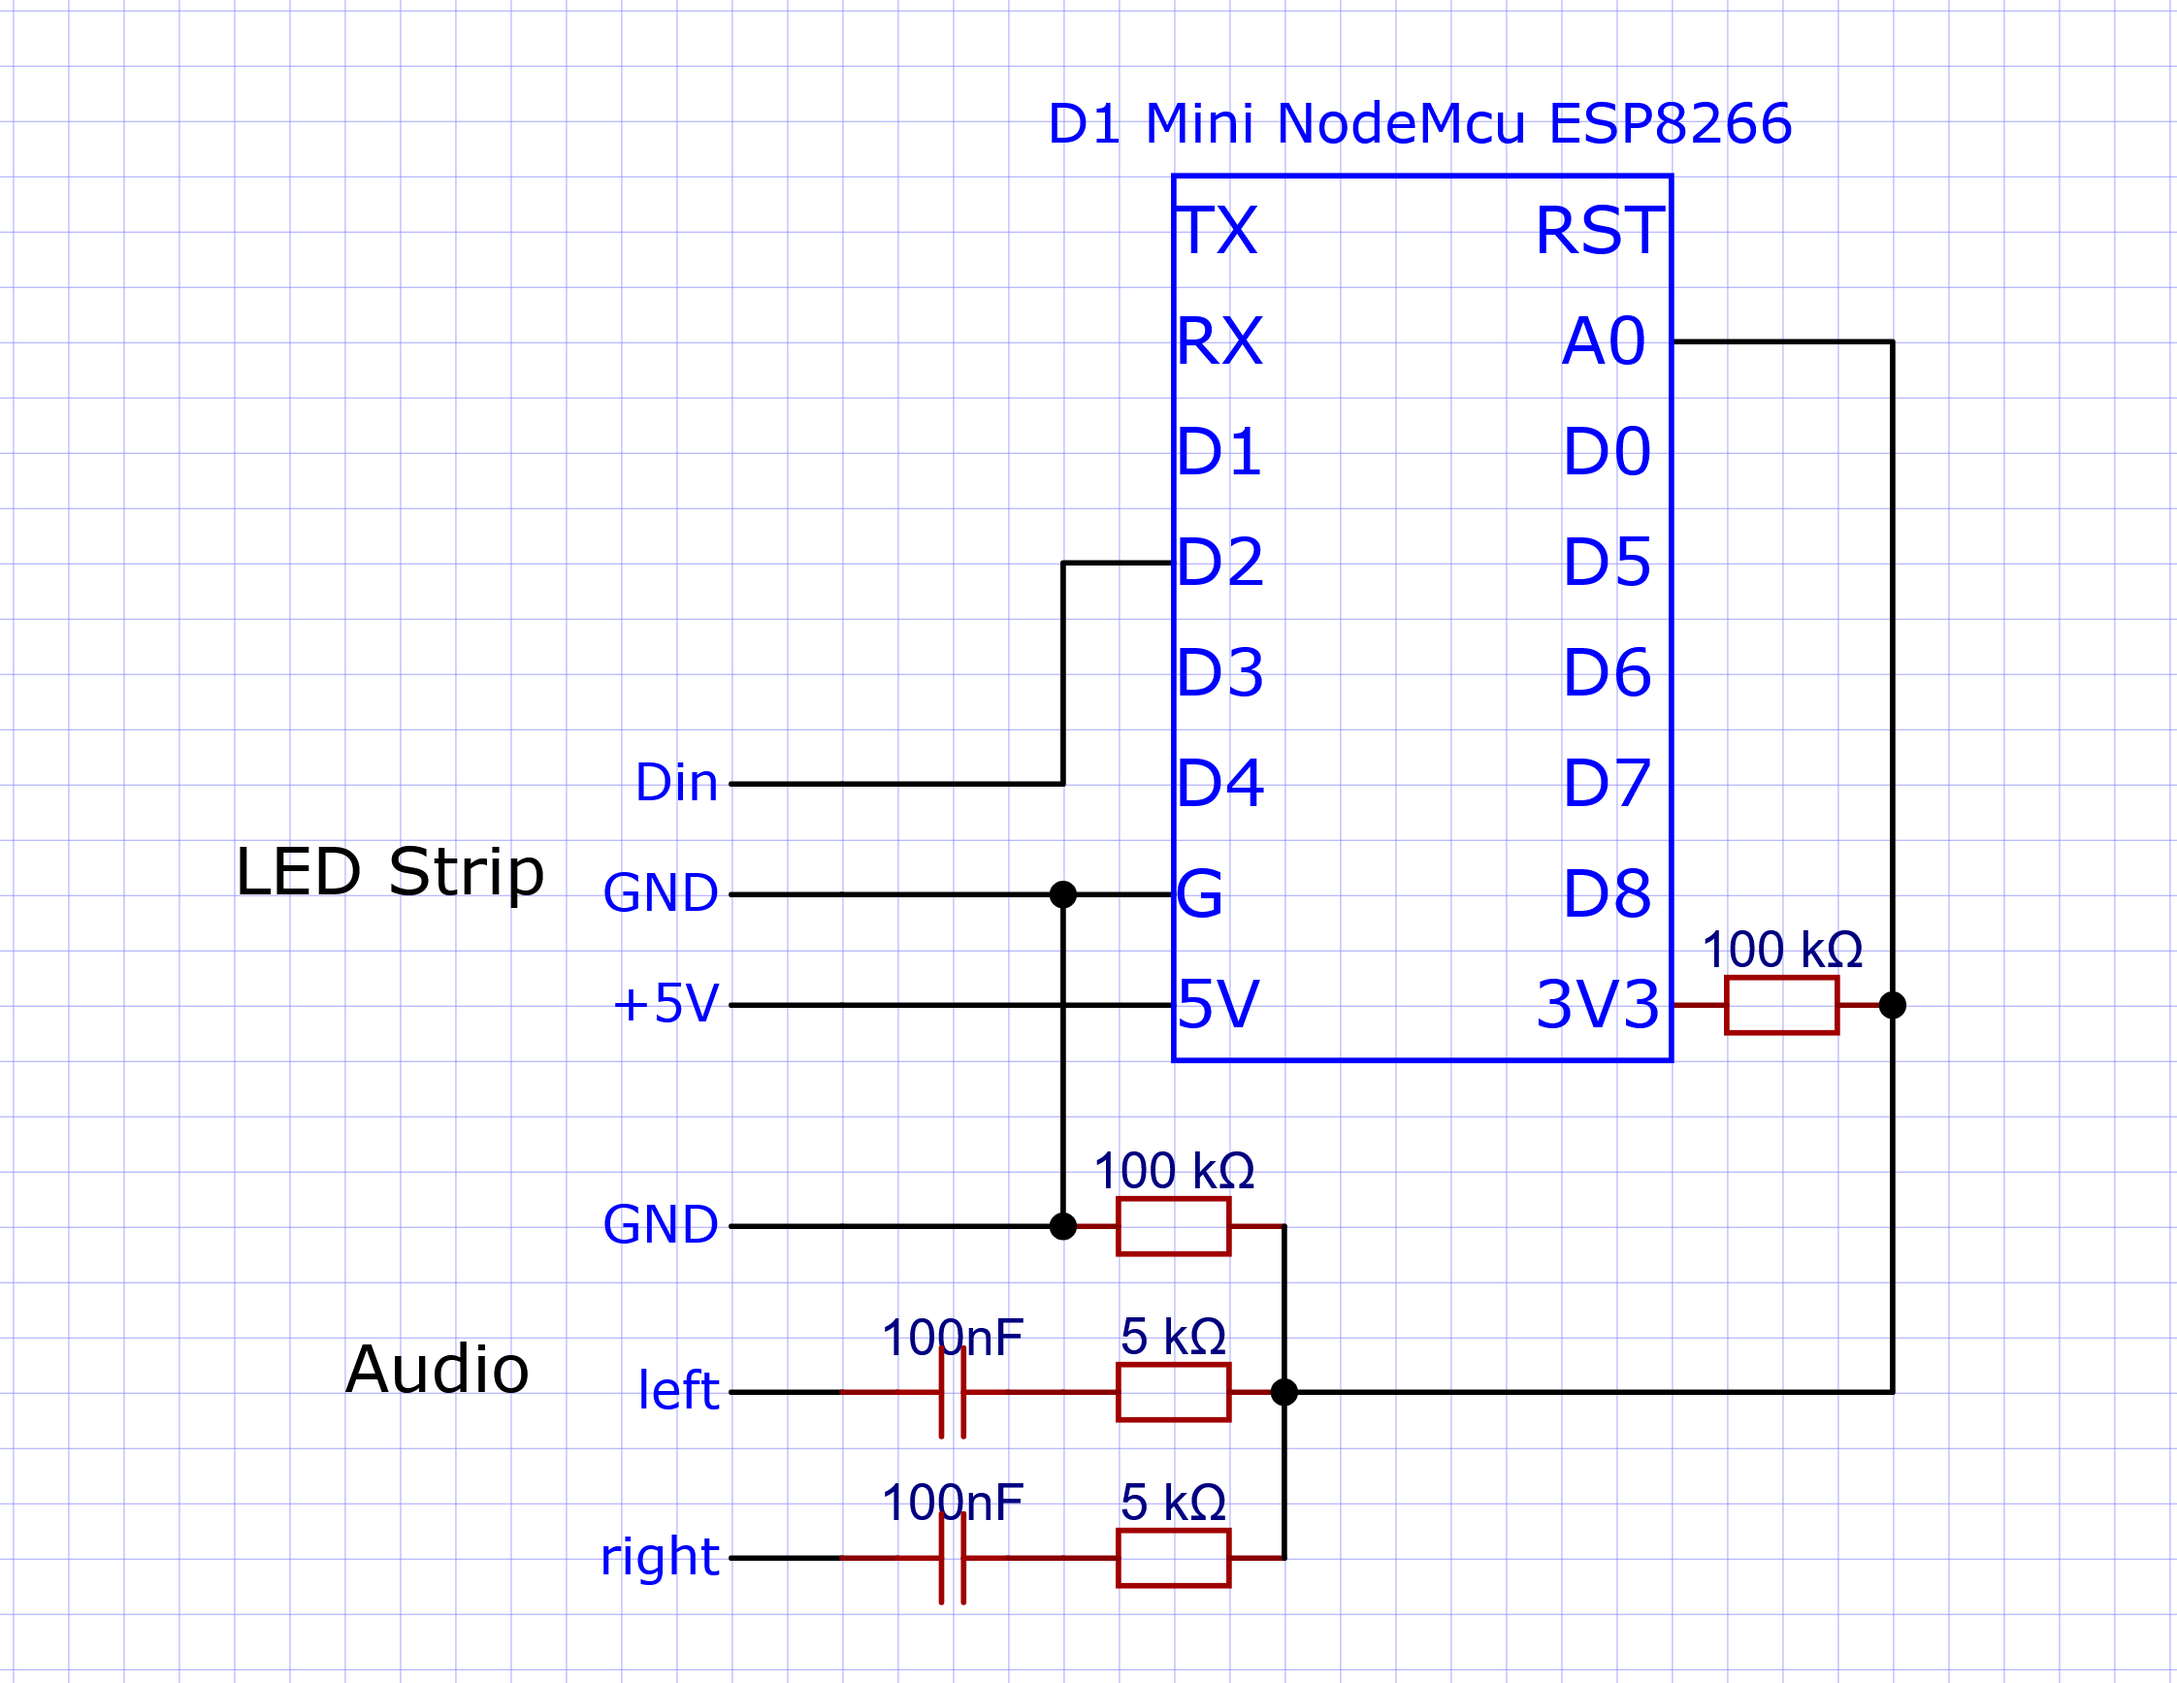
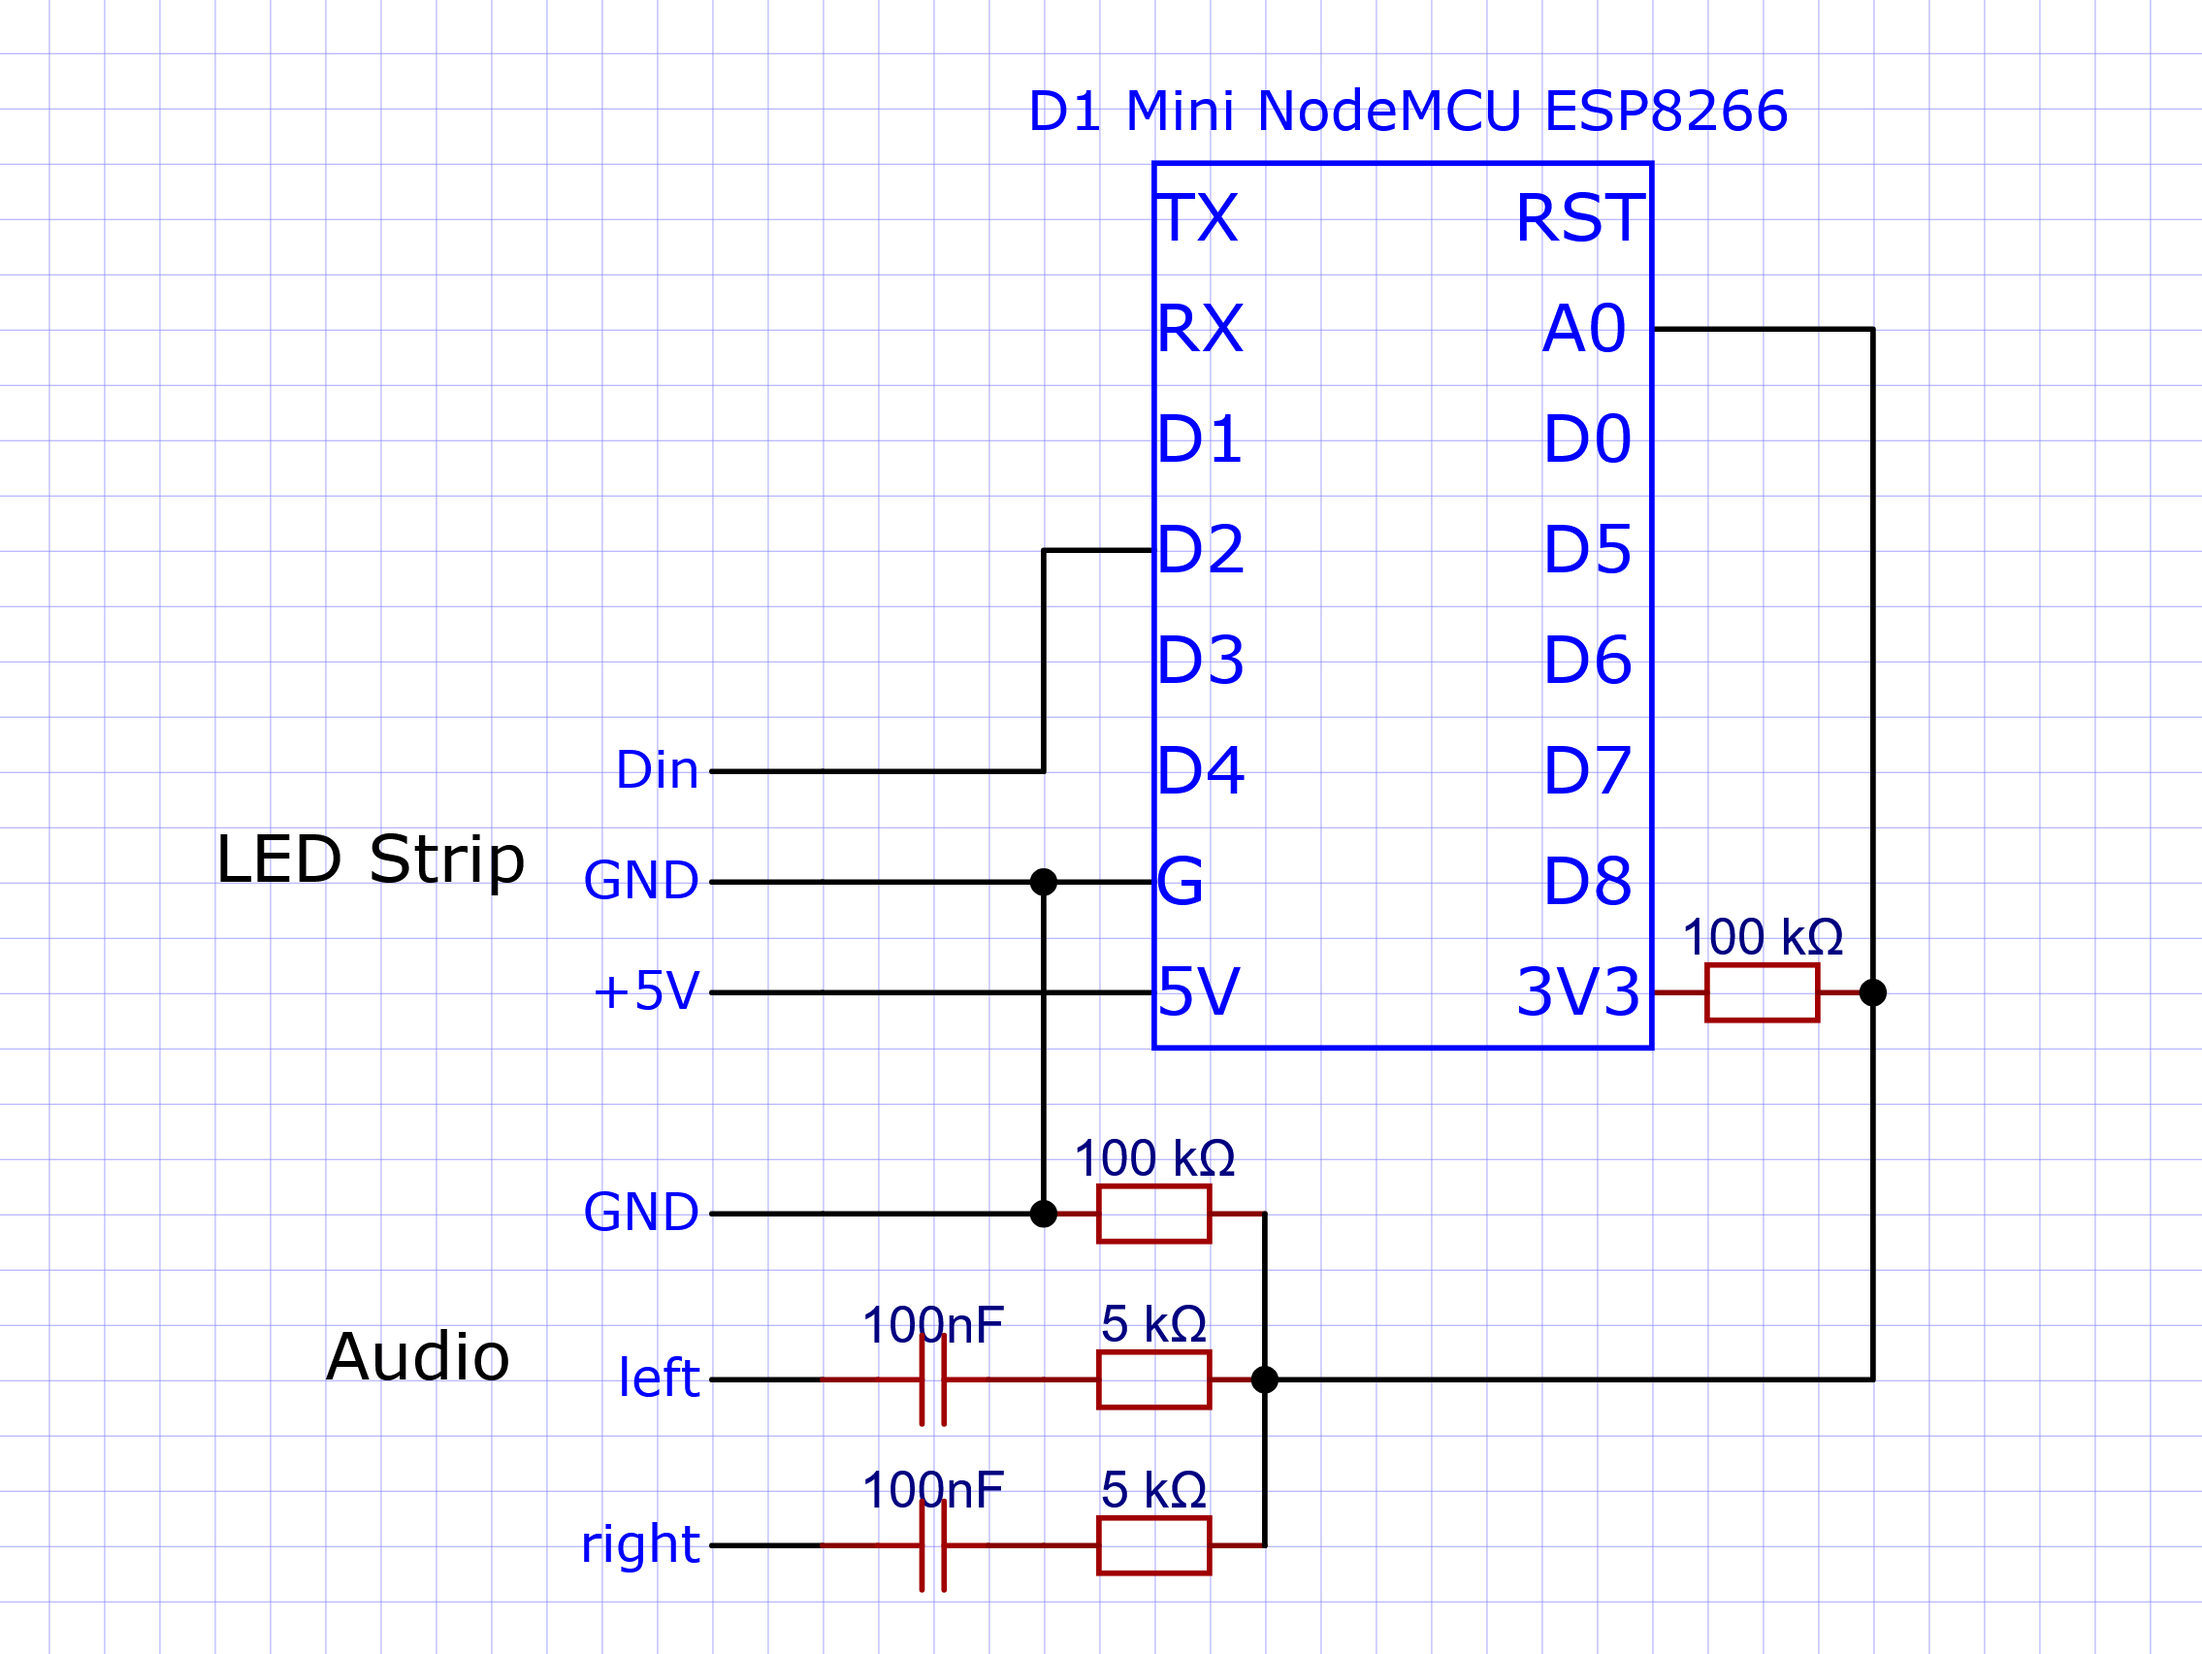
added images of build

diff --git a/README.md b/README.md
@@ -1,1 +1,12 @@
 # NodeMCU LED Audio Visualizer
+
+## Required Components
+ - 1x D1 Mini NodeMCU ESP8266
+ - 1x individually addressable led strip
+ - 2x resistor 5 kΩ
+ - 2x resistor 100 kΩ
+ - 2x capacitor 100nF
+ - 1x headphone jack socket
+
+## Schematic
+![schematic](images/schematic.png)
